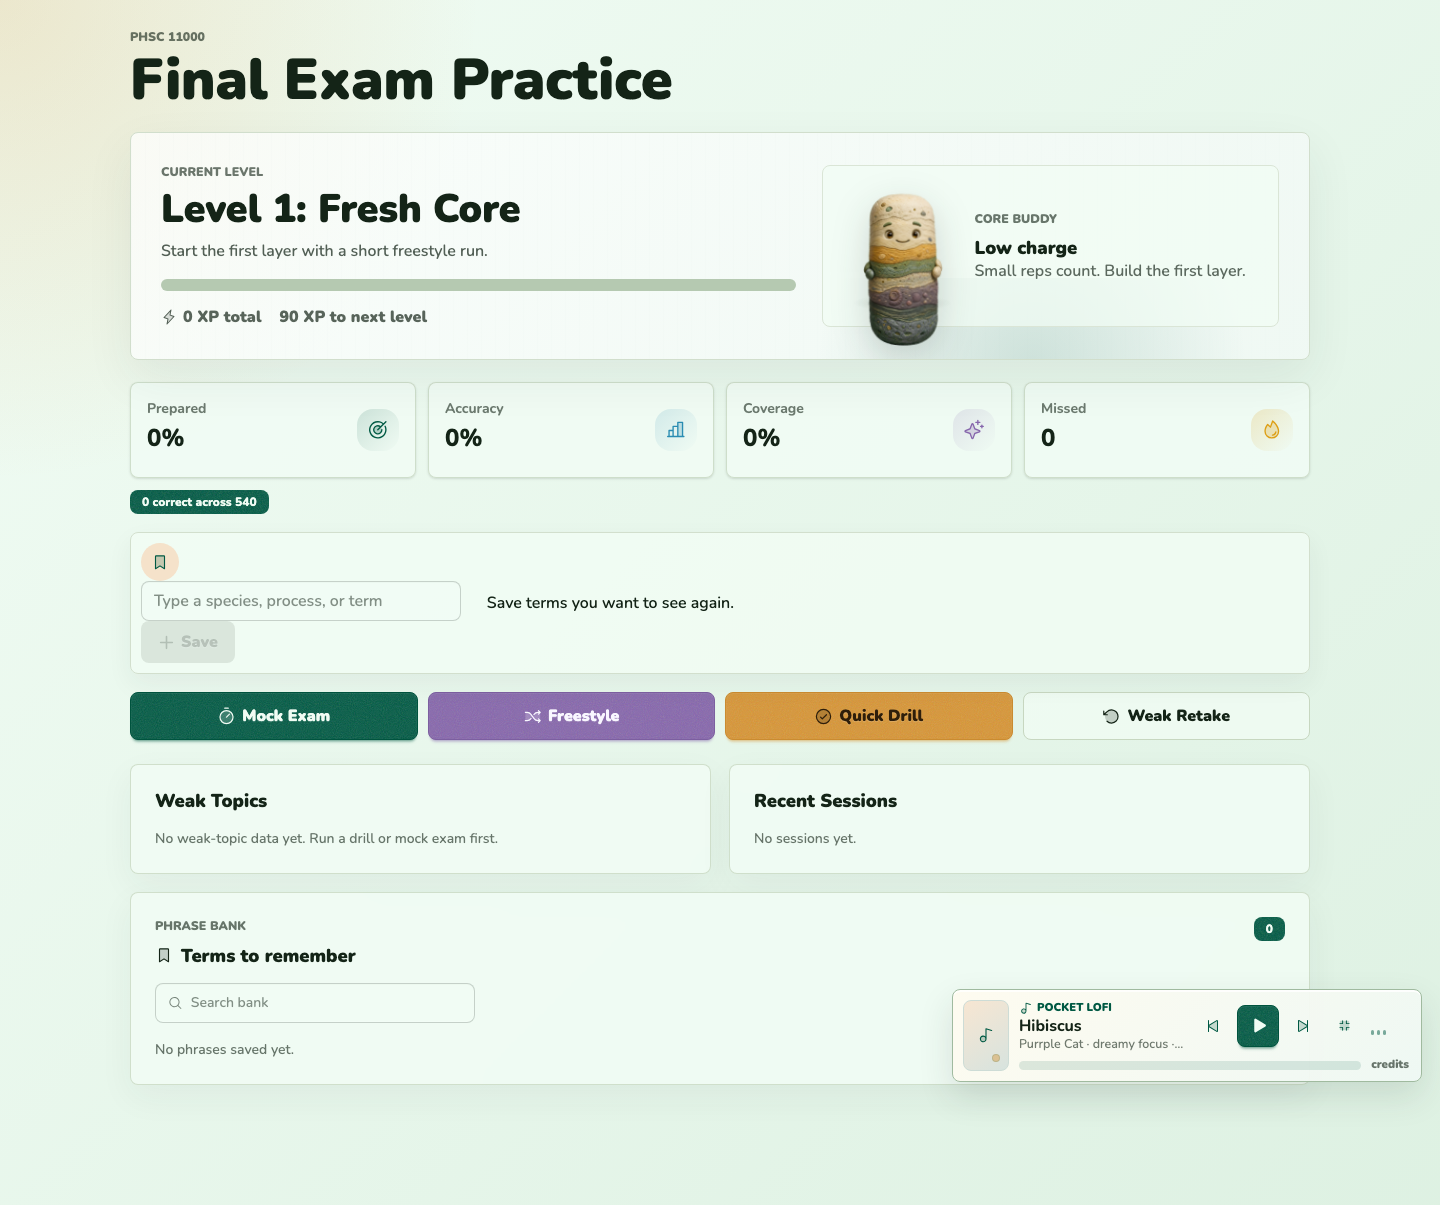
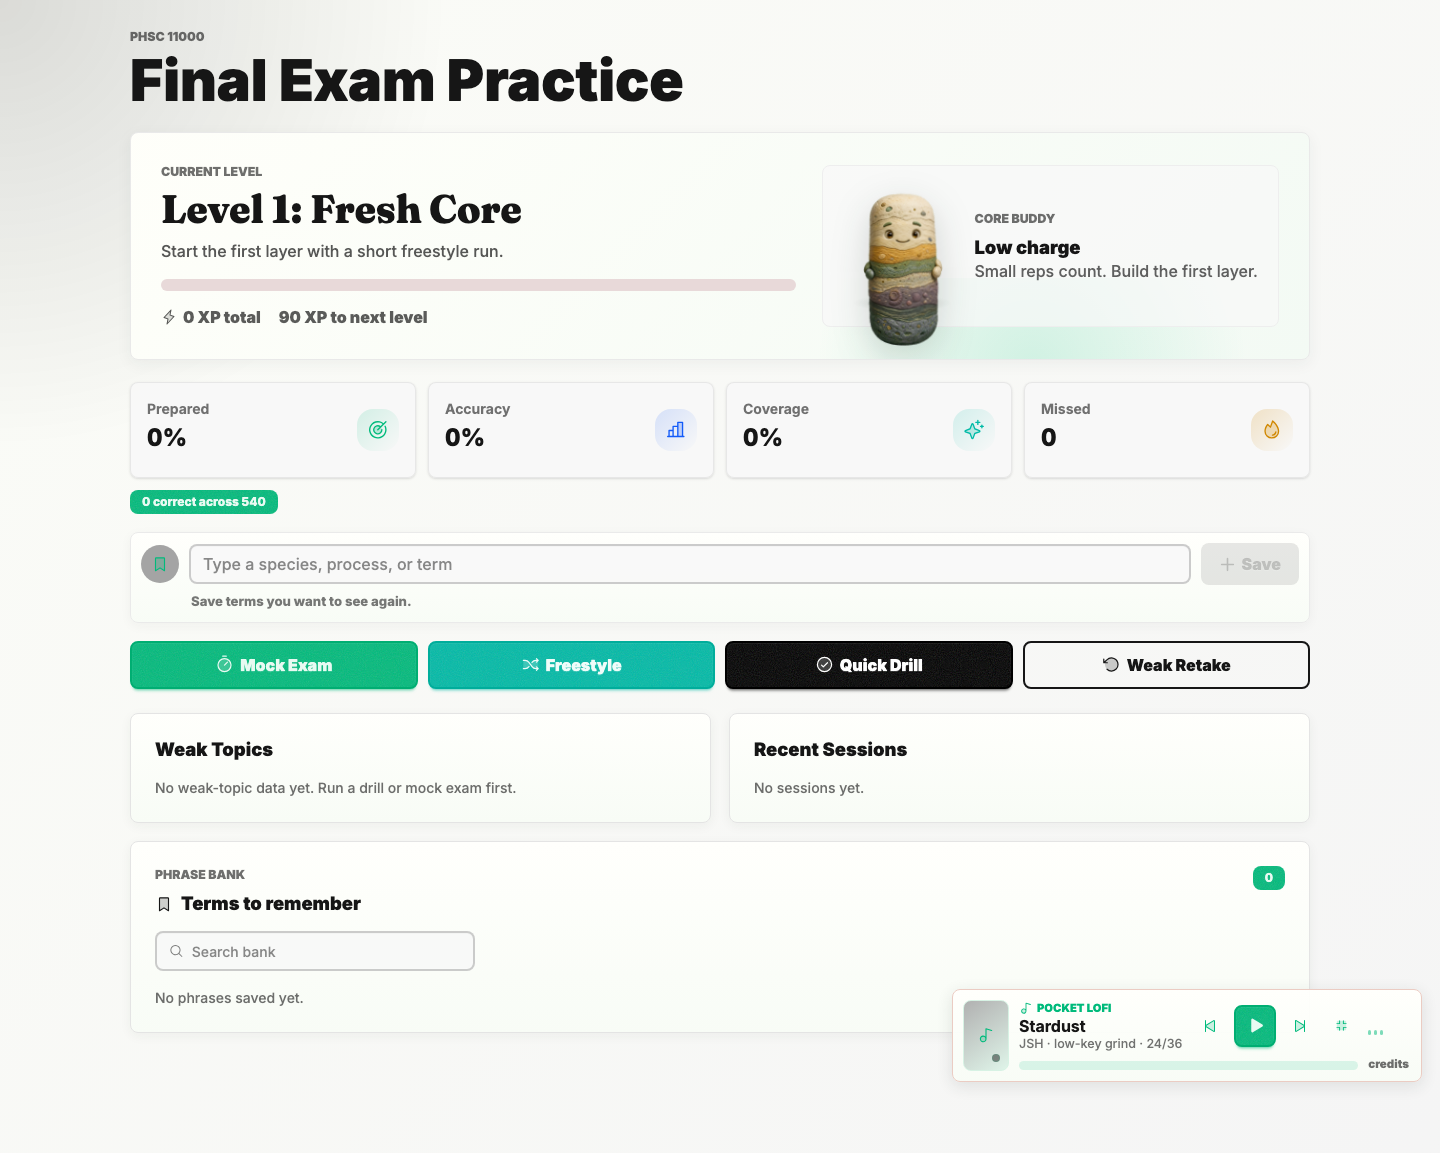
Refresh study app visuals

diff --git a/src/styles.css b/src/styles.css
@@ -1,4 +1,4 @@
-@import url("https://fonts.googleapis.com/css2?family=Nunito:wght@500;600;700;800;900&display=swap");
+@import url("https://fonts.googleapis.com/css2?family=Fraunces:opsz,wght@9..144,700;9..144,800&family=Inter:wght@500;600;700;800;900&display=swap");
 @import "tailwindcss";
 
 @plugin "daisyui" {
@@ -10,32 +10,32 @@
   default: true;
   prefersdark: false;
   color-scheme: light;
-  --color-base-100: oklch(98% 0.016 154);
-  --color-base-200: oklch(94% 0.028 153);
-  --color-base-300: oklch(86% 0.035 137);
-  --color-base-content: oklch(24% 0.032 151);
-  --color-primary: oklch(41% 0.09 170);
-  --color-primary-content: oklch(98% 0.016 154);
-  --color-secondary: oklch(72% 0.135 72);
-  --color-secondary-content: oklch(25% 0.04 70);
-  --color-accent: oklch(57% 0.11 304);
-  --color-accent-content: oklch(98% 0.012 300);
-  --color-neutral: oklch(30% 0.034 152);
-  --color-neutral-content: oklch(96% 0.016 154);
-  --color-info: oklch(60% 0.105 229);
-  --color-info-content: oklch(98% 0.016 229);
-  --color-success: oklch(56% 0.11 147);
-  --color-success-content: oklch(98% 0.016 147);
-  --color-warning: oklch(74% 0.15 79);
-  --color-warning-content: oklch(24% 0.04 79);
-  --color-error: oklch(56% 0.15 28);
-  --color-error-content: oklch(98% 0.014 28);
+  --color-base-100: oklch(98% 0 0);
+  --color-base-200: oklch(97% 0 0);
+  --color-base-300: oklch(92% 0 0);
+  --color-base-content: oklch(20% 0 0);
+  --color-primary: oklch(69% 0.17 162.48);
+  --color-primary-content: oklch(97% 0.021 166.113);
+  --color-secondary: oklch(0% 0 0);
+  --color-secondary-content: oklch(100% 0 0);
+  --color-accent: oklch(70% 0.14 182.503);
+  --color-accent-content: oklch(98% 0.014 180.72);
+  --color-neutral: oklch(20% 0 0);
+  --color-neutral-content: oklch(98% 0 0);
+  --color-info: oklch(54% 0.245 262.881);
+  --color-info-content: oklch(97% 0.014 254.604);
+  --color-success: oklch(59% 0.145 163.225);
+  --color-success-content: oklch(97% 0.021 166.113);
+  --color-warning: oklch(68% 0.162 75.834);
+  --color-warning-content: oklch(98% 0.026 102.212);
+  --color-error: oklch(57% 0.245 27.325);
+  --color-error-content: oklch(97% 0.013 17.38);
   --radius-selector: 0.5rem;
   --radius-field: 0.5rem;
   --radius-box: 0.5rem;
   --size-selector: 0.25rem;
   --size-field: 0.25rem;
-  --border: 1px;
+  --border: 2px;
   --depth: 1;
   --noise: 1;
 }
@@ -43,7 +43,7 @@
 :root {
   color: var(--color-base-content);
   background: var(--color-base-200);
-  font-family: "Nunito", ui-rounded, "Avenir Next", "SF Pro Rounded", ui-sans-serif, system-ui, -apple-system, BlinkMacSystemFont, "Segoe UI", sans-serif;
+  font-family: "Inter", ui-sans-serif, system-ui, -apple-system, BlinkMacSystemFont, "Segoe UI", sans-serif;
   font-synthesis: none;
   text-rendering: optimizeLegibility;
 }
@@ -74,7 +74,7 @@ body::before {
 }
 
 h1, h2, p { margin-top: 0; }
-h1 { font-size: clamp(2rem, 5vw, 3.55rem); font-weight: 900; letter-spacing: 0; line-height: 0.95; }
+h1 { font-size: clamp(2rem, 5vw, 3.55rem); font-weight: 850; letter-spacing: 0; line-height: 0.95; }
 h2 { font-size: 1.15rem; font-weight: 850; line-height: 1.25; }
 button, input, textarea { font: inherit; }
 
@@ -159,7 +159,9 @@ button, input, textarea { font: inherit; }
 }
 
 .hero-copy h2 {
+  font-family: "Fraunces", Georgia, serif;
   font-size: clamp(1.55rem, 3vw, 2.45rem);
+  font-weight: 800;
   line-height: 1;
   margin-bottom: 10px;
 }
@@ -566,21 +568,21 @@ button, input, textarea { font: inherit; }
 }
 
 .correct-feedback {
-  background: color-mix(in oklch, var(--color-success) 14%, var(--color-base-100));
-  border: 1px solid color-mix(in oklch, var(--color-success) 76%, var(--color-base-300));
+  background: color-mix(in oklch, var(--color-success) 10%, var(--color-base-100));
+  border: 1px solid color-mix(in oklch, var(--color-success) 54%, var(--color-base-300));
 }
 
 .wrong-feedback {
-  background: color-mix(in oklch, var(--color-error) 11%, var(--color-base-100));
-  border: 1px solid color-mix(in oklch, var(--color-error) 68%, var(--color-base-300));
+  background: color-mix(in oklch, var(--color-error) 8%, var(--color-base-100));
+  border: 1px solid color-mix(in oklch, var(--color-error) 48%, var(--color-base-300));
 }
 
 .panel-correct {
-  box-shadow: 0 0 0 3px color-mix(in oklch, var(--color-success) 16%, transparent), 0 12px 30px rgba(32, 114, 79, 0.12);
+  box-shadow: 0 0 0 2px color-mix(in oklch, var(--color-success) 16%, transparent), 0 4px 14px rgba(32, 114, 79, 0.08);
 }
 
 .panel-wrong {
-  box-shadow: 0 0 0 3px color-mix(in oklch, var(--color-error) 15%, transparent), 0 12px 30px rgba(177, 59, 46, 0.1);
+  box-shadow: 0 0 0 2px color-mix(in oklch, var(--color-error) 15%, transparent), 0 4px 14px rgba(177, 59, 46, 0.08);
 }
 
 .reinforcement-line {
@@ -595,11 +597,11 @@ button, input, textarea { font: inherit; }
 .review-summary {
   align-items: center;
   background:
-    linear-gradient(135deg, color-mix(in oklch, var(--color-base-100) 92%, transparent), color-mix(in oklch, var(--color-secondary) 10%, var(--color-base-100))),
-    repeating-linear-gradient(90deg, rgba(30, 91, 79, 0.035) 0 1px, transparent 1px 12px);
+    linear-gradient(180deg, rgba(255, 255, 252, 0.98), rgba(248, 252, 246, 0.98)),
+    repeating-linear-gradient(95deg, rgba(42, 89, 76, 0.022) 0 1px, transparent 1px 12px);
   border: 1px solid color-mix(in oklch, var(--color-base-300) 80%, white);
   border-radius: 0.5rem;
-  box-shadow: 0 14px 34px rgba(38, 52, 47, 0.08);
+  box-shadow: 0 4px 16px rgba(38, 52, 47, 0.055);
   display: grid;
   gap: 18px;
   grid-template-columns: minmax(0, 1fr) auto;
@@ -609,7 +611,7 @@ button, input, textarea { font: inherit; }
 
 .review-summary.level-up {
   border-color: var(--color-secondary);
-  box-shadow: 0 0 0 3px color-mix(in oklch, var(--color-secondary) 18%, transparent), 0 18px 38px rgba(81, 63, 23, 0.12);
+  box-shadow: 0 0 0 2px color-mix(in oklch, var(--color-secondary) 18%, transparent), 0 4px 16px rgba(81, 63, 23, 0.08);
 }
 
 .reward-copy h2 {
@@ -763,12 +765,12 @@ button, input, textarea { font: inherit; }
 .music-player {
   align-items: center;
   background:
-    linear-gradient(135deg, rgba(255, 251, 239, 0.97), rgba(239, 248, 244, 0.97)),
-    repeating-linear-gradient(90deg, rgba(30, 91, 79, 0.04) 0 1px, transparent 1px 12px);
+    linear-gradient(180deg, rgba(255, 255, 252, 0.98), rgba(248, 252, 246, 0.98)),
+    repeating-linear-gradient(95deg, rgba(30, 91, 79, 0.02) 0 1px, transparent 1px 12px);
   border: 1px solid color-mix(in oklch, var(--color-primary) 22%, var(--color-base-300));
   border-radius: 0.5rem;
   bottom: 18px;
-  box-shadow: 0 14px 34px rgba(38, 52, 47, 0.13), 0 2px 0 rgba(255, 255, 255, 0.78) inset;
+  box-shadow: 0 4px 16px rgba(38, 52, 47, 0.12);
   color: var(--color-primary);
   display: grid;
   gap: 8px 10px;

diff --git a/src/components/ui/StudyCard.tsx b/src/components/ui/StudyCard.tsx
@@ -12,8 +12,8 @@ export function StudyCard({ as: Component = "section", children, className, comp
   return (
     <Component
       className={cx(
-        "card study-card border border-base-300/80 bg-base-100/90 text-base-content shadow-sm",
-        interactive && "transition hover:-translate-y-0.5 hover:shadow-md",
+        "card study-card border border-base-300 bg-base-100 text-base-content",
+        interactive && "transition hover:border-primary",
         className
       )}
       {...props}

diff --git a/src/components/ui/Button.tsx b/src/components/ui/Button.tsx
@@ -15,7 +15,7 @@ const toneClass: Record<ButtonTone, string> = {
   secondary: "btn-secondary",
   accent: "btn-accent",
   ghost: "btn-ghost",
-  soft: "btn-outline border-base-300 bg-base-100/75",
+  soft: "btn-outline",
   danger: "btn-error btn-outline"
 };
 